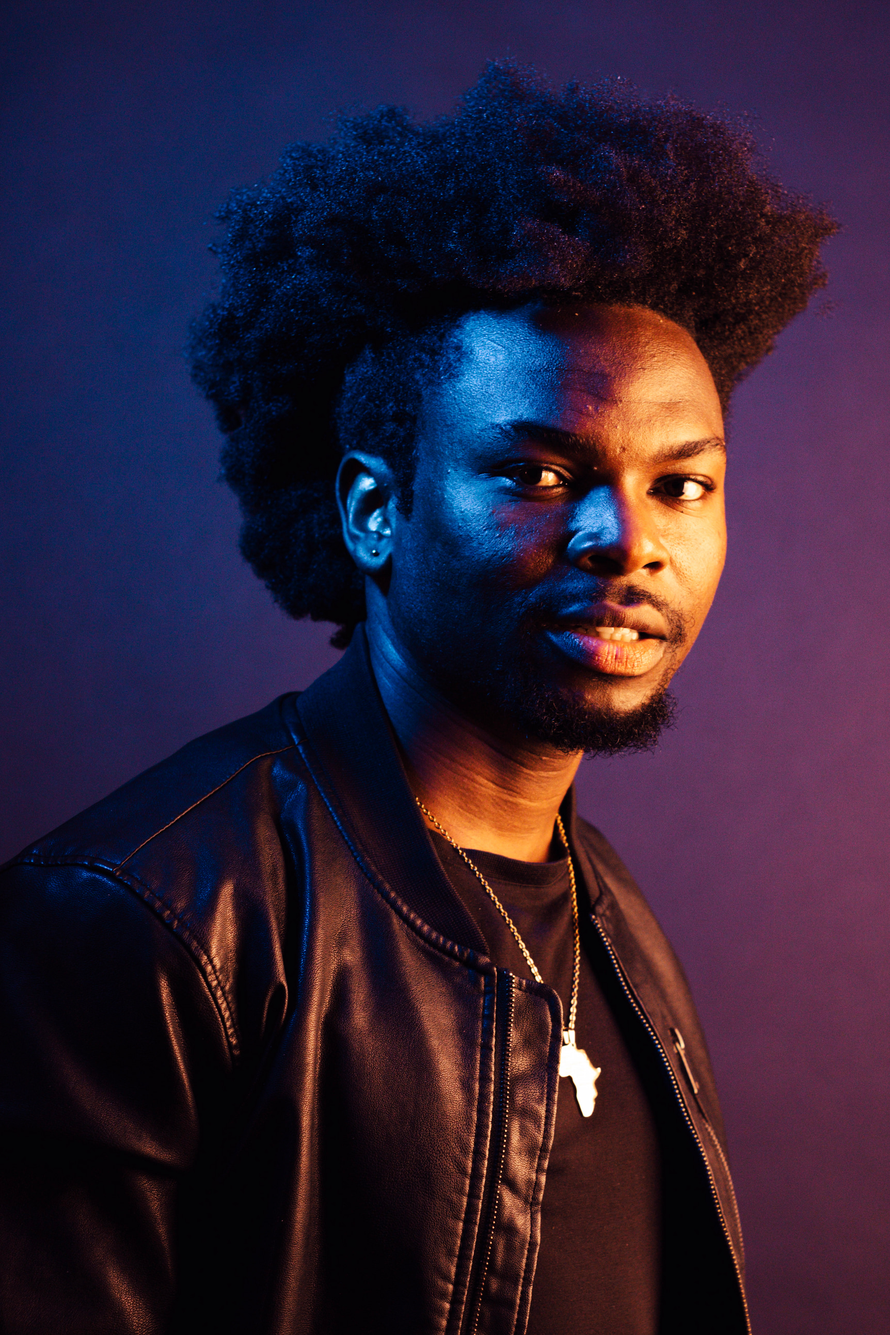
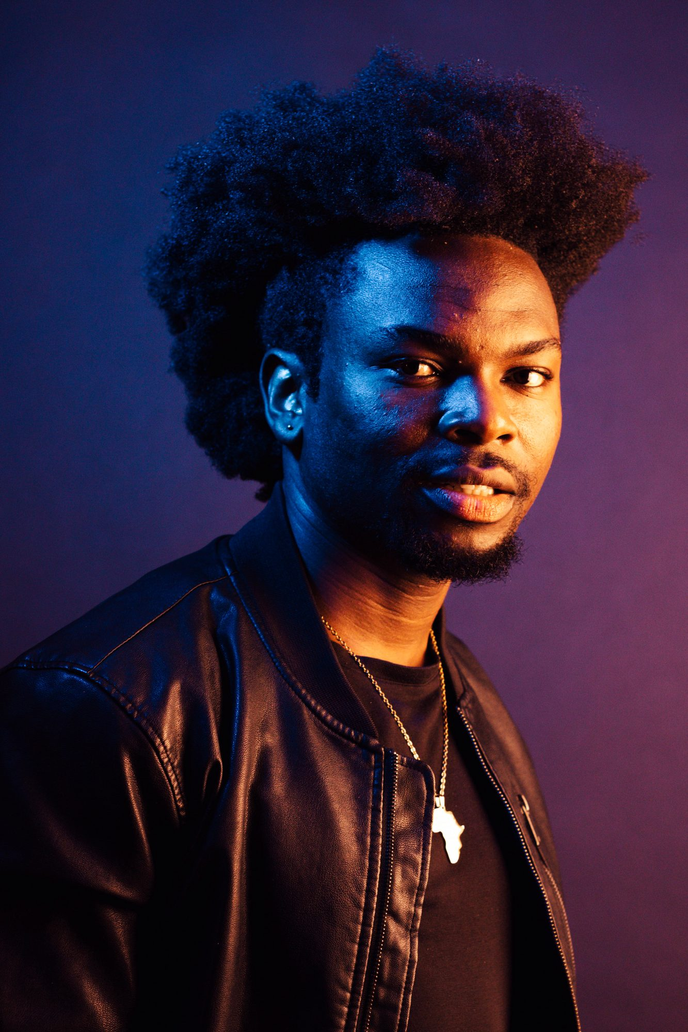
Fix project pages: restore wide layout, equal-height slideshows, phone tabs; resize new services photos
- Pricing/FAQ intro text used the same class name as the project panel (.pi), squeezing project and trip pages into a narrow centred column; renamed to .pintro
- Slideshows in project photo rows are always as tall as the tallest photo beside them
- Phone: design page tabs wrap instead of making the page wider than the screen
- Resize macbook-1.jpg and img0569-1.jpg (about 2.2 MB each to about 350 KB, same filenames)

Claude-Session: https://claude.ai/code/session_01E2uLgYCf9hHEihTZL8f5af

diff --git a/app.js b/app.js
@@ -219,7 +219,16 @@ function projHTML(p){var L=p.imgs.length,out=[],sh=(p.ss||[]).filter(function(s)
   function put(n){sh.forEach(function(s){if(s._a===n)out.push(ssHTML(s.imgs))})}
   put(0);p.imgs.forEach(function(s,i){out.push(s?'<img class="pic'+(i==0?' w':'')+'"'+(i==0?'':' onload="if(this.naturalHeight)this.style.setProperty(\'--ar\',this.naturalWidth/this.naturalHeight)"')+' src="'+String(s).replace(/"/g,"%22")+'" alt="" decoding="async" loading="lazy">':'<div'+(i==0?' class="w"':'')+' style="background:'+bg({img:s},i+3)+'"></div>');put(i+1)});
   return'<h2>'+p.title+'</h2><div class="pm"><ul>'+p.meta.map(function(m){return'<li><b>'+m[0]+'</b>'+m[1]+'</li>'}).join("")+'</ul><div class="dp">'+dpar(p.desc)+'</div></div><div class="pim">'+out.join("")+'</div>'}
-var pjTs=[];function pshows(){pjTs.forEach(clearInterval);pjTs=[];[].forEach.call(document.querySelectorAll("#pji .pss"),function(el){var im=el.children,k=0;if(im.length<2)return;pjTs.push(setInterval(function(){im[k].classList.remove("on");k=(k+1)%im.length;im[k].classList.add("on")},2000))})}
+/* project photo rows: make every slideshow exactly as tall as the tallest photo beside it (same on every browser) */
+var eqT=0;
+function eqPss(){var g=document.querySelector("#pji .pim");if(!g)return;var it=[].slice.call(g.children),rows=[];
+  it.forEach(function(e){if(e.classList.contains("pss"))e.style.height=""});
+  it.forEach(function(e){var t=e.getBoundingClientRect().top,r=null;rows.forEach(function(x){if(Math.abs(x.t-t)<8)r=x});if(!r){r={t:t,e:[]};rows.push(r)}r.e.push(e)});
+  rows.forEach(function(r){var mx=0;r.e.forEach(function(e){mx=Math.max(mx,e.getBoundingClientRect().height)});r.e.forEach(function(e){if(e.classList.contains("pss")&&Math.abs(e.getBoundingClientRect().height-mx)>1)e.style.height=mx+"px"})})}
+function eqSoon(){cancelAnimationFrame(eqT);eqT=requestAnimationFrame(eqPss)}
+document.addEventListener("load",function(e){var t=e.target;if(t&&t.tagName=="IMG"&&t.closest&&t.closest("#pji"))eqSoon()},true);
+addEventListener("resize",eqSoon);addEventListener("orientationchange",function(){setTimeout(eqSoon,300)});
+var pjTs=[];function pshows(){pjTs.forEach(clearInterval);pjTs=[];setTimeout(eqSoon,120);setTimeout(eqSoon,900);[].forEach.call(document.querySelectorAll("#pji .pss"),function(el){var im=el.children,k=0;if(im.length<2)return;pjTs.push(setInterval(function(){im[k].classList.remove("on");k=(k+1)%im.length;im[k].classList.add("on")},2000))})}
 function dpar(x){return String(x||"").split(/\n\s*\n/).map(function(s){return"<p>"+esc(s.trim())+"</p>"}).join("")}
 function fmtC(v,p,n){v=parseFloat(v);if(isNaN(v))return"";return Math.abs(v).toFixed(4)+"° "+(v>=0?p:n)}
 function mapHTML(t){var la=fmtC(t.lat,"N","S"),lo=fmtC(t.lon,"E","W");if(!t.mapImg&&!(la&&lo))return"";
@@ -255,7 +264,7 @@ function spOn(p){[].forEach.call(document.querySelectorAll("#sv2 .sp"),function(
  function card(p,i){return'<article class="pk rvx" style="--d:'+(i%4)*90+'ms"><p class="sm pn">'+esc(p.n.toUpperCase())+'</p><p class="pp"><small>from</small> <b class="cu">'+esc(p.pr)+'</b></p>'+(p.bf?'<p class="pb">'+esc(p.bf)+'</p>':'')+'<ul>'+p.d.map(function(d){return"<li>"+esc(d)+"</li>"}).join("")+'</ul></article>'}
  function cards(pk){var groups=[],seen={};pk.forEach(function(p){if(!(p.g in seen)){seen[p.g]=groups.length;groups.push({g:p.g,a:[]})}groups[seen[p.g]].a.push(p)});
   return groups.map(function(g){return(g.g?'<h3 class="pg">'+esc(g.g)+'</h3>':'')+'<div class="pks">'+g.a.map(function(p,i){return card(p,i)}).join("")+'</div>'}).join("")}
- $("prc").innerHTML='<div class="ic"></div><h1>PRICING</h1>'+(CONTENT.ptext.intro?'<p class="pi">'+esc(CONTENT.ptext.intro)+'</p>':'')
+ $("prc").innerHTML='<div class="ic"></div><h1>PRICING</h1>'+(CONTENT.ptext.intro?'<p class="pintro">'+esc(CONTENT.ptext.intro)+'</p>':'')
   +'<nav class="pnav sm" aria-label="Services">'+P.map(function(s){return'<a href="/pricing#p-'+s.slug+'">'+esc(s.name.toUpperCase())+'</a>'}).join("")+(CONTENT.bundles.length?'<a href="/pricing#p-bundles">BUNDLES</a>':'')+'</nav>'
   +P.map(function(s,i){return'<section class="ps" id="p-'+s.slug+'"><header class="rvx"><span class="sm" style="color:var(--yel)">'+pad(i+1)+'</span><h2>'+esc(s.name)+'</h2>'+(s.from?'<p class="sm pf2">FROM <b>'+esc(s.from)+'</b></p>':'')+'</header>'
    +s.intro.map(function(x){return'<p class="pin rvx">'+esc(x)+'</p>'}).join("")+cards(s.pk)
@@ -281,7 +290,7 @@ function spOn(p){[].forEach.call(document.querySelectorAll("#sv2 .sp"),function(
 })();
 /* FAQs page (content/faqs.json) */
 (function(){var F=CONTENT.faqs;if(!$("faq"))return;var cats=[];F.forEach(function(f){if(cats.indexOf(f.c)<0)cats.push(f.c)});
- $("faq").innerHTML='<div class="ic"></div><h1>FAQS</h1>'+(CONTENT.ptext.faq?'<p class="pi">'+esc(CONTENT.ptext.faq)+'</p>':'')
+ $("faq").innerHTML='<div class="ic"></div><h1>FAQS</h1>'+(CONTENT.ptext.faq?'<p class="pintro">'+esc(CONTENT.ptext.faq)+'</p>':'')
   +'<div class="fqf sm"><button type="button" class="on" data-fc="">ALL</button>'+cats.map(function(c){return'<button type="button" data-fc="'+esc(c)+'">'+esc(c.toUpperCase())+'</button>'}).join("")+'</div>'
   +'<div class="fqw">'+cats.map(function(c){return'<section class="fqc" data-c="'+esc(c)+'"><h2>'+esc(c)+'</h2>'+F.filter(function(f){return f.c==c}).map(function(f){return'<details class="fq"><summary>'+esc(f.q)+'</summary><div>'+f.a.map(function(x){return"<p>"+esc(x)+"</p>"}).join("")+'</div></details>'}).join("")+'</section>'}).join("")+'</div>'
   +'<div class="guide"><h2>Still wondering?</h2><p>Send me a message and I’ll get back to you as soon as I can.</p><div class="gbt"><a class="btn sm" href="/#enquire">ASK A QUESTION</a><a class="btn sm ghost" href="/pricing">SEE PRICING</a></div></div>';

diff --git a/style.css b/style.css
@@ -291,6 +291,7 @@ a:focus-visible,button:focus-visible{outline:2px solid var(--yel);outline-offset
  .so:first-of-type .tl>.tile:last-child:nth-child(odd){grid-column:1/-1;width:calc(50% - .5rem);justify-self:center}
  .mo{gap:.8rem;grid-auto-rows:calc((90vw - .8rem)/2/1.55);grid-auto-flow:dense}
  .reveal{display:none}
+ .tabs{flex-wrap:wrap;gap:.4rem 1.3rem}
  .cats li.cc{position:relative;overflow:hidden;border-radius:4px;margin-bottom:.8rem;min-height:clamp(88px,calc((100svh - 330px)/4),150px);display:flex;align-items:flex-end;background-position:var(--fx,50%) var(--fy,50%)!important}
  .sp .bgi{background-position:var(--fx,50%) var(--fy,50%)!important}
  .cats li.cc::before{content:"";position:absolute;inset:0;background:linear-gradient(90deg,rgba(24,24,26,.85),rgba(24,24,26,.35))}
@@ -314,7 +315,7 @@ a:focus-visible,button:focus-visible{outline:2px solid var(--yel);outline-offset
 .btn.ghost:hover{border-color:var(--yel);background:var(--yel);color:var(--char)}
 button.btn{font:400 .78rem "Jost",sans-serif;letter-spacing:.22em}
 /* pricing page */
-.pi{max-width:60ch;margin:-1rem auto 0;text-align:center;opacity:.9}
+.pintro{max-width:60ch;margin:-1rem auto 0;text-align:center;opacity:.9}
 .pnav{position:sticky;top:4.6rem;z-index:3;display:flex;flex-wrap:wrap;justify-content:center;gap:.6rem;margin:3rem auto 0;padding:.8rem 0;background:rgba(43,43,45,.92);backdrop-filter:blur(8px)}
 .pnav a{padding:.5rem .9rem;border:1px solid #5d5d61;border-radius:999px;transition:border-color .3s,color .3s}
 .pnav a:hover{border-color:var(--yel);color:var(--yel)}
